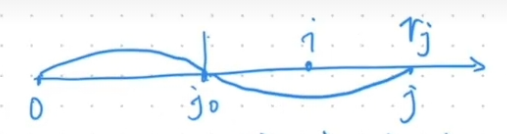
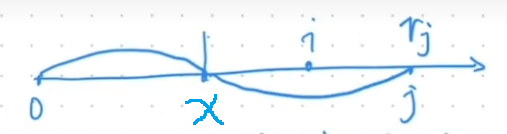
1

Changed region(s): [[0.355, 0.7164, 0.4438, 0.9254], [0.355, 0.6269, 0.3846, 0.6567]]

diff --git a/courses/039 质押奖励.md b/courses/039 质押奖励.md
@@ -69,11 +69,11 @@
 - 为了不与上面推导公式中的n重合，我们定义为 $"累计求和r_j"$
 - 此时，用户的质押量 $S_i$ 已经被抽离出去了，不恒定的变量只剩下为 $T_i$。
 - $r_j = \sum_{i=0}^{(j-1)} \frac{R}{T_i}$
-- 我们需要设想 $T_i$为恒定值，故在第 $j0$ 秒，到第 $j$ 秒 之间， $T_i = T$恒定不变。
+- 我们需要设想 $T_i$为恒定值，故在第 $x$ 秒，到第 $j$ 秒 之间， $T_i = T$恒定不变。
 
 ![stakingReward_2.png.](../images/stakingReward_2.png "stakingReward_2.png.")
-- $r_j = \sum_{i=0}^{(j-1)} \frac{R}{T_i} = \frac{R}{T}·\sum_{i=0}^{(j-1)}·1 = r_j0 + \sum_{i=j0}^{j-1}·\frac{R}{T}$
-- $r_j = r_j0 + \frac{R}{T}·\sum_{i=j0}^{j-1}·1$
+- $r_j = \sum_{i=0}^{(j-1)} \frac{R}{T_i} = \frac{R}{T}·\sum_{i=0}^{(j-1)}·1 = r_x + \sum_{i=x}^{j-1}·\frac{R}{T}$
+- $r_j = r_x + \frac{R}{T}·\sum_{i=x}^{j-1}·1$
 - 终于到了"纯数值累加求和"
-- $r_j = r_j0 + \frac{R}{T}·(j-1-j0+1)$
-- $r_j = r_j0 + \frac{R}{T}·(j-j0)$
+- $r_j = r_x + \frac{R}{T}·(j-1-x+1)$
+- $r_j = r_x + \frac{R}{T}·(j-x)$
